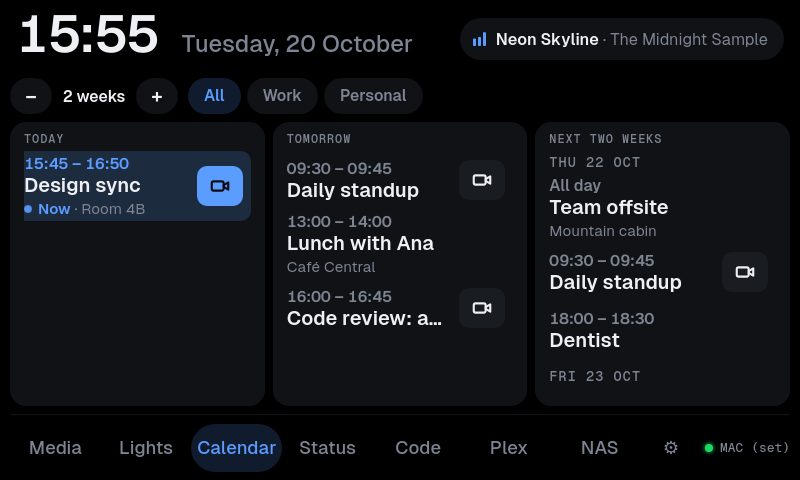
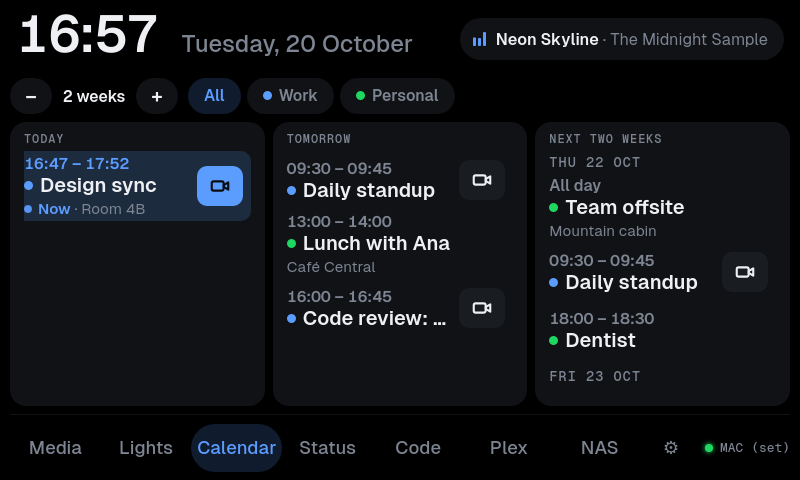
Give each calendar a color dot on its tab and on its events in All

diff --git a/device/web/index.html b/device/web/index.html
@@ -232,6 +232,7 @@
     font-size: calc(14.5px * var(--ts)); font-weight: 600; color: var(--muted); white-space: nowrap; }
   .cal-tab + .cal-tab { margin-left: 6px; }
   .cal-tab.on { background: var(--acc-soft); color: var(--acc); }
+  .ev-cal { display: inline-block; width: 9px; height: 9px; border-radius: 50%; margin: 0 7px 2px 0; vertical-align: middle; }
   .cal-tab.down { filter: brightness(1.3); }
   .cal-weeks { flex: none; display: flex; align-items: center; margin-right: 10px; }
   .cal-weeks b { min-width: 84px; text-align: center; font-size: calc(14.5px * var(--ts)); font-weight: 600; }
@@ -1538,7 +1539,8 @@ function untilText(ms) {
 }
 // One event. In the list the time is its own column; in a day column (cols) it goes
 // above the title, which leaves the narrow column's width to the title.
-function eventHTML(e, isNext, cols) {
+// dot: the calendar's dot before the title (in All, with two calendars or more), or ''.
+function eventHTML(e, isNext, cols, dot) {
   var now = Date.now(), when = e.all_day ? 'All day' : fmtClock(e.start) + (cols ? ' – ' + fmtClock(e.end) : '');
   var status = !isNext ? '' : e.start <= now ? '<b><i class="live"></i>Now</b>' : e.start - now < 12 * 3600000 ? '<b>In ' + untilText(e.start) + '</b>' : '';
   var sub = cols ? [status, esc(e.where)] : [status, e.all_day ? '' : 'until ' + fmtClock(e.end), esc(e.where)];
@@ -1546,7 +1548,7 @@ function eventHTML(e, isNext, cols) {
   return '<div class="ev' + (isNext ? ' next' : '') + '" data-ev="' + esc(e.id) + '">' +
     (cols ? '' : '<div class="ev-time">' + (e.all_day ? '<small>All day</small>' : when) + '</div>') +
     '<div class="ev-main">' + (cols ? '<div class="ev-when">' + when + '</div>' : '') +
-      '<div class="ev-title">' + esc(e.title) + '</div>' + (sub ? '<div class="ev-sub">' + sub + '</div>' : '') + '</div>' +
+      '<div class="ev-title">' + (dot || '') + esc(e.title) + '</div>' + (sub ? '<div class="ev-sub">' + sub + '</div>' : '') + '</div>' +
     (e.link ? '<div class="ev-join" data-join="' + esc(e.id) + '">' + icon('camera') + '</div>' : '') + '</div>';
 }
 // Event details: the list has the basics; the notes and calendar name come on request.
@@ -1675,6 +1677,9 @@ function pickedCalendar() {
 // How many weeks the agenda shows, 1 to 4, per tab (setting "calendar_weeks", by the calendar's
 // name or '' for All); 2 when none is saved. The device sends 4 weeks of events.
 var CAL_WEEKS = 4, WEEK_WORDS = ['', 'one', 'two', 'three', 'four'];
+// A color per calendar, by its index, from the theme: a dot on its tab, and on its events in All.
+var CAL_COLORS = ['var(--key)', 'var(--media)', 'var(--nav)', 'var(--type)', 'var(--mouse)', 'var(--warn)', 'var(--bad)'];
+function calDot(i) { return '<i class="ev-cal" style="background:' + CAL_COLORS[i % CAL_COLORS.length] + '"></i>'; }
 var CAL_BAR = '<div class="cal-bar" id="calbar"><div class="cal-weeks" id="calweeks"></div><div class="cal-tabs" id="caltabs"></div></div>';
 function calendarWeeks(picked) {
   var n = ((st.settings && st.settings.calendar_weeks) || {})[picked || ''];
@@ -1698,7 +1703,7 @@ function updateCalBar() {
   tabs.style.display = names.length > 1 ? '' : 'none';
   if (names.length > 1) {
     var html = '<div class="cal-tab' + (picked == null ? ' on' : '') + '" data-cal="-1">All</div>' + names.map(function (n, i) {
-      return '<div class="cal-tab' + (n === picked ? ' on' : '') + '" data-cal="' + i + '">' + esc(n) + '</div>';
+      return '<div class="cal-tab' + (n === picked ? ' on' : '') + '" data-cal="' + i + '">' + calDot(i) + esc(n) + '</div>';
     }).join('');
     if (redraw(tabs, html)) {
       var on = tabs.querySelector('.on');
@@ -1723,7 +1728,7 @@ function updateAgenda() {
   var now = Date.now(), today = dayNumber(now), events = (agenda.events || []).filter(function (e) {
     return e.end > now && (picked == null || names[e.cal] === picked) && dayNumber(Math.max(e.start, now)) - today < weeks * 7;
   });
-  var html = '', day = null, next = null;
+  var html = '', day = null, next = null, dots = picked == null && names.length > 1;
   for (var i = 0; i < events.length && !next; i++) if (!events[i].all_day) next = events[i];
   if (cols && events.length) {
     // Today | Tomorrow | the rest of the weeks shown, each a card that scrolls on its own.
@@ -1731,7 +1736,7 @@ function updateAgenda() {
     events.forEach(function (e) {
       var d = dayNumber(Math.max(e.start, now)), c = Math.min(2, d - today);
       if (c === 2 && d !== laterDay) { laterDay = d; parts[2] += '<div class="ag-day">' + dayLabel(Math.max(e.start, now)) + '</div>'; }
-      parts[c] += eventHTML(e, e === next, true);
+      parts[c] += eventHTML(e, e === next, true, dots ? calDot(e.cal) : '');
     });
     var titles = ['Today', 'Tomorrow', weeks === 1 ? 'Later this week' : 'Next ' + WEEK_WORDS[weeks] + ' weeks'];
     html = parts.map(function (p, c) {
@@ -1742,7 +1747,7 @@ function updateAgenda() {
   if (!cols) events.forEach(function (e) {
     var d = dayNumber(Math.max(e.start, now));
     if (d !== day) { day = d; html += '<div class="ag-day">' + dayLabel(Math.max(e.start, now)) + '</div>'; }
-    html += eventHTML(e, e === next, false);
+    html += eventHTML(e, e === next, false, dots ? calDot(e.cal) : '');
   });
   if (!events.length) {
     if (agenda.state === 'none') html = stateCard('Calendar', 'No calendar yet', 'Put your Google Calendar’s secret iCal address in calendars.txt on the computer (see README).');

diff --git a/device/README.md b/device/README.md
@@ -211,7 +211,9 @@ twice). With two names or more, the page shows tabs above the agenda: All and ea
 The tab is the setting `calendar` (a name, or `null` for All) in `state.json`. A name
 that is not in `calendars` shows All. On the left of the bar, − and + set how many weeks
 the page shows, 1 to 4 (2 when none is saved), for each tab: the setting `calendar_weeks`,
-`{"<name>" or "" for All: weeks}`. The page filters the 4 weeks the device sends. The tabs filter only the page: reminders come from
+`{"<name>" or "" for All: weeks}`. The page filters the 4 weeks the device sends.
+Each calendar has a color by its index (`CAL_COLORS`, the theme's own colors): a dot on
+its tab, and before the title of its events in All. The tabs filter only the page: reminders come from
 every calendar.
 
 **Join:** the UI posts `POST /api/calendar/open` with an event id; only events with

diff --git a/README.md b/README.md
@@ -174,7 +174,8 @@ them to the Car Thing **over the USB cable** (`adb forward`; no network):
   Tap an event for its details: date, time and length, place, calendar and notes.
   With two calendars or more, tabs at the top show **All** or one calendar. The Car
   Thing keeps the tab you pick, and the number of weeks for each tab. If the picked
-  calendar is gone, it shows All.
+  calendar is gone, it shows All. In All, a colored dot shows each event's calendar,
+  in the color of its tab.
   Five minutes before any timed event in any calendar, a reminder card comes up on any page with a
   countdown and **Dismiss**, plus **Join meeting** for a meeting with a link or
   **Details** for anything else; it stays until two minutes after the start.
